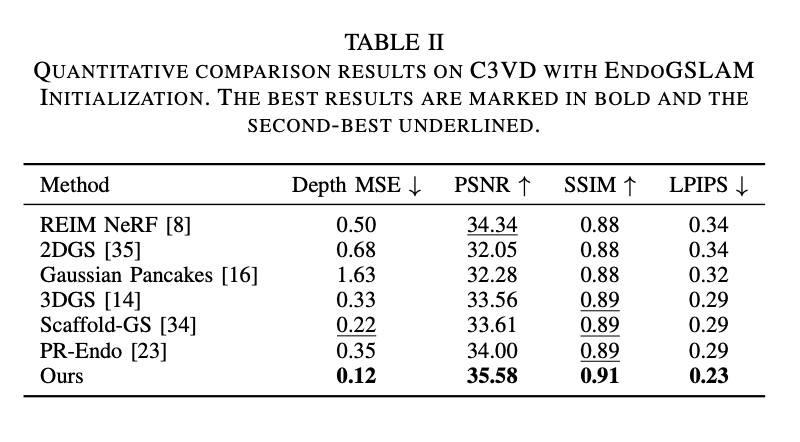
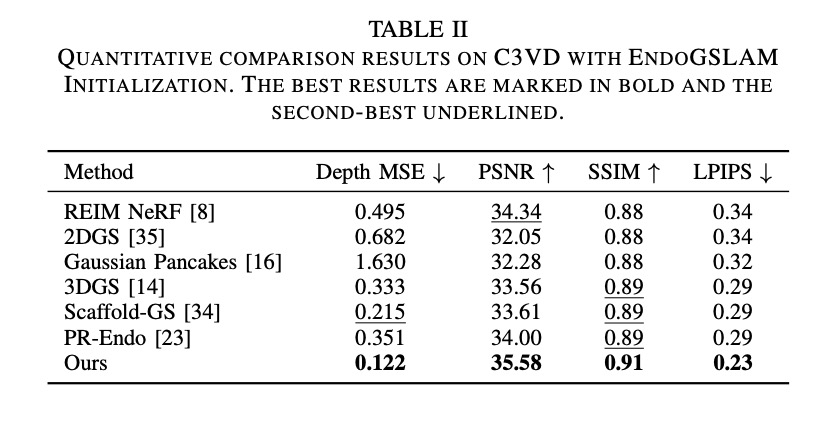
new fig

Changed region(s): [[0.0312, 0.3341, 0.9688, 0.9112], [0.0312, 0.0304, 0.9688, 0.3037]]

diff --git a/README.md b/README.md
@@ -58,7 +58,7 @@ Qualitative comparisons show that the novel views rendered by Gaussian Pancakes 
 
 ## Implementations
 
-Currently, we have released the core code, and the full version will be made available after the paper is accepted.
+Code will be made available after the paper is accepted.
 
 ## Acknowledgement
 Thanks the authors for their works: